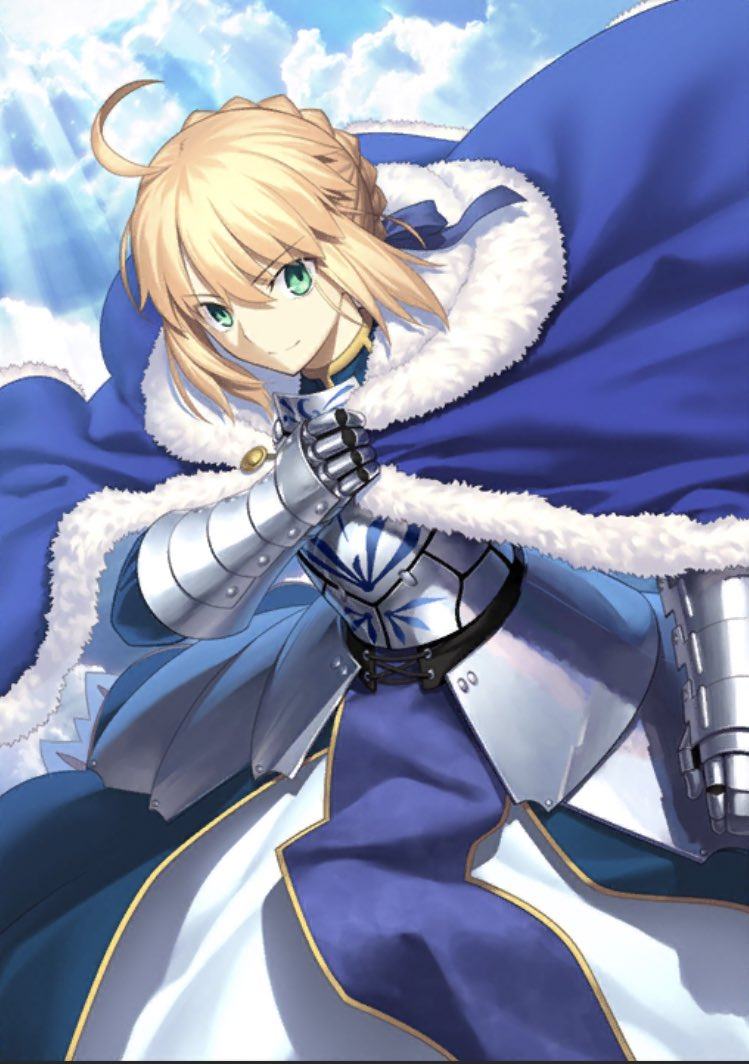
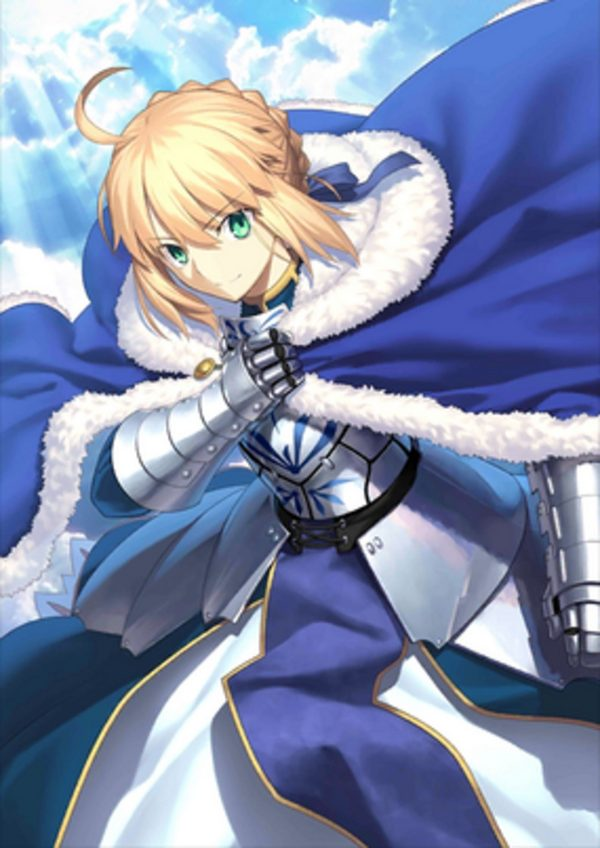
update servant cards with official art, fixed backs, and auto-sorted events

diff --git a/index.html b/index.html
@@ -24,15 +24,15 @@
     .toolbar{display:flex;gap:10px;align-items:center;flex-wrap:wrap;padding:24px 0 18px}.search{position:relative;flex:1;min-width:220px}.search input{width:100%;border:1px solid var(--line);background:var(--panel);color:var(--ink);padding:13px 16px 13px 42px;border-radius:8px;outline:none}.search:before{content:"⌕";position:absolute;left:15px;top:7px;font-size:1.5rem;color:var(--muted)}.search input:focus{border-color:var(--blue);box-shadow:0 0 0 3px color-mix(in srgb,var(--blue),transparent 82%)}
     .filters{display:flex;gap:6px;flex-wrap:wrap}.filter{border:1px solid var(--line);background:transparent;color:var(--muted);border-radius:999px;padding:9px 13px;cursor:pointer}.filter.active{background:var(--navy);color:white;border-color:var(--navy)}
     .count{font-size:.82rem;color:var(--muted);padding:0 0 14px;display:flex;align-items:center;justify-content:space-between;gap:12px;flex-wrap:wrap}.spoiler-toggle{border:1px solid var(--line);background:var(--panel);color:var(--muted);padding:7px 10px;border-radius:6px;cursor:pointer;font-size:.75rem}.spoiler-toggle[aria-pressed="true"]{border-color:var(--gold);color:var(--ink)}.grid{display:grid;grid-template-columns:repeat(3,minmax(0,1fr));gap:22px}
-    .card-wrap{min-width:0;perspective:1400px}.card{position:relative;aspect-ratio:3/4.25;transform-style:preserve-3d;transition:transform .72s cubic-bezier(.2,.75,.2,1);cursor:pointer;outline:none}.card.flipped{transform:rotateY(180deg)}.face{position:absolute;inset:0;backface-visibility:hidden;border-radius:15px;overflow:hidden;box-shadow:var(--shadow)}
-    .front{background:#0a1528;border:6px solid var(--gold);padding:5px}.front:before{content:"";position:absolute;inset:7px;border:1px solid rgba(255,241,178,.78);z-index:4;pointer-events:none}.art{position:absolute;inset:12px 12px 82px;overflow:hidden;background:#071326}.art img{width:100%;height:100%;object-fit:cover;display:block;transition:transform .5s ease}.card:hover .art img{transform:scale(1.025)}
+    .card-wrap{min-width:0;perspective:1400px;-webkit-perspective:1400px}.card{position:relative;aspect-ratio:2/3;transform-style:preserve-3d;-webkit-transform-style:preserve-3d;transition:transform .72s cubic-bezier(.2,.75,.2,1);cursor:pointer;outline:none}.card.flipped{transform:rotateY(180deg);-webkit-transform:rotateY(180deg)}.face{position:absolute;inset:0;backface-visibility:hidden;-webkit-backface-visibility:hidden;transform-style:preserve-3d;-webkit-transform-style:preserve-3d;border-radius:15px;overflow:hidden;box-shadow:var(--shadow)}
+    .front{transform:rotateY(0deg);-webkit-transform:rotateY(0deg);background:#0a1528;border:6px solid var(--gold);padding:5px}.front:before{content:"";position:absolute;inset:7px;border:1px solid rgba(255,241,178,.78);z-index:4;pointer-events:none}.art{position:absolute;inset:12px 12px 82px;overflow:hidden;background:#071326}.art img{width:100%;height:100%;object-fit:cover;display:block;transition:transform .5s ease}.card:hover .art img{transform:scale(1.025)}
     .foil{position:absolute;inset:0;z-index:3;pointer-events:none;background:linear-gradient(118deg,transparent 20%,rgba(255,255,255,.13) 40%,rgba(103,226,255,.25) 46%,rgba(255,215,116,.18) 53%,transparent 66%);transform:translateX(-110%);transition:transform .8s}.card:hover .foil{transform:translateX(90%)}
     .class-badge{position:absolute;z-index:5;left:21px;top:21px;background:rgba(2,11,28,.86);border:1px solid var(--gold2);color:#fff;padding:6px 9px;font-size:.7rem;font-weight:800;letter-spacing:.08em}.rarity{position:absolute;z-index:5;right:22px;top:23px;color:var(--gold2);text-shadow:0 1px 4px #000;font-size:.78rem;letter-spacing:.05em}
     .nameplate{position:absolute;z-index:5;left:12px;right:12px;bottom:12px;height:70px;padding:11px 14px;background:linear-gradient(110deg,#07162e,#17355b 60%,#0b1a34);border-top:1px solid var(--gold2);color:white}.nameplate h2{font-family:"Noto Serif SC",serif;font-size:1.25rem;line-height:1.15;margin:0}.nameplate p{margin:4px 0 0;color:#b8c8df;font-size:.72rem;letter-spacing:.08em;text-transform:uppercase}.tap{position:absolute;right:13px;bottom:12px;font-size:.65rem;color:#dce8f8;opacity:.78}
-    .back{transform:rotateY(180deg);background:var(--panel);border:2px solid var(--gold);padding:26px 24px 22px;display:flex;flex-direction:column}.back:before,.back:after{content:"";position:absolute;border:1px solid var(--line);pointer-events:none}.back:before{inset:8px}.back:after{inset:13px;border-color:color-mix(in srgb,var(--gold),transparent 52%)}.back>*{position:relative;z-index:2}.back .serial{font-weight:800;color:var(--blue);font-size:.68rem;letter-spacing:.15em}.back h3{font-family:"Noto Serif SC",serif;font-size:1.6rem;line-height:1.15;margin:10px 0 4px}.back .origin{font-size:.75rem;color:var(--muted);margin:0 0 16px}.divider{height:1px;background:linear-gradient(90deg,var(--gold),transparent);margin:0 0 14px}.story{font-size:.88rem;line-height:1.72;margin:0}.np{margin-top:auto;padding-top:12px}.np span{display:block;font-size:.65rem;font-weight:800;color:var(--blue);letter-spacing:.12em}.np strong{display:block;font-family:"Noto Serif SC",serif;font-size:1rem;margin-top:3px}.source{display:inline-flex;align-items:center;gap:6px;color:var(--blue);font-size:.72rem;margin-top:13px;text-decoration:none;font-weight:700}.source:hover{text-decoration:underline}
-    .empty{display:none;text-align:center;padding:70px 20px;color:var(--muted);border:1px dashed var(--line);border-radius:10px}.empty.show{display:block}.events{margin-top:58px;padding-top:30px;border-top:1px solid var(--line)}.events-head{display:flex;justify-content:space-between;gap:24px;align-items:end;margin-bottom:18px}.events h2{font-family:"Noto Serif SC",serif;font-size:clamp(1.8rem,4vw,3.2rem);margin:0;letter-spacing:-.04em}.asof{color:var(--muted);font-size:.76rem;text-align:right}.event-list{display:grid;grid-template-columns:repeat(3,minmax(0,1fr));border-top:2px solid var(--ink)}.event{padding:20px 18px 17px;border-bottom:1px solid var(--line);border-right:1px solid var(--line)}.event:last-child{border-right:0}.event-top{display:flex;justify-content:space-between;gap:10px;align-items:start}.event h3{font-family:"Noto Serif SC",serif;margin:0;font-size:1.18rem;line-height:1.35}.verdict{white-space:nowrap;padding:4px 7px;border-radius:4px;background:var(--navy);color:#fff;font-size:.7rem;font-weight:800}.verdict.maybe{background:transparent;color:var(--blue);border:1px solid var(--blue)}.date{margin:7px 0 12px;color:var(--blue);font-size:.75rem;font-weight:700}.event p{margin:0;color:var(--muted);font-size:.84rem;line-height:1.7}.event .reward{color:var(--ink);margin-bottom:7px}.event a{display:inline-block;margin-top:12px;color:var(--blue);font-weight:700;font-size:.74rem;text-decoration:none}.event a:hover{text-decoration:underline}.forecast{margin:13px 0 0;color:var(--muted);font-size:.72rem;line-height:1.6}.foot{margin-top:34px;padding-top:18px;border-top:1px solid var(--line);display:flex;justify-content:space-between;gap:20px;color:var(--muted);font-size:.76rem;line-height:1.6}.kbd{border:1px solid var(--line);border-bottom-width:2px;border-radius:4px;padding:1px 5px;background:var(--panel)}
+    .back{transform:rotateY(180deg);-webkit-transform:rotateY(180deg);background:var(--panel);border:2px solid var(--gold);padding:26px 24px 22px;display:flex;flex-direction:column}.back:before,.back:after{content:"";position:absolute;border:1px solid var(--line);pointer-events:none}.back:before{inset:8px}.back:after{inset:13px;border-color:color-mix(in srgb,var(--gold),transparent 52%)}.back>*{position:relative;z-index:2}.back .serial{font-weight:800;color:var(--blue);font-size:.68rem;letter-spacing:.15em}.back h3{font-family:"Noto Serif SC",serif;font-size:1.6rem;line-height:1.15;margin:10px 0 4px}.back .origin{font-size:.75rem;color:var(--muted);margin:0 0 16px}.divider{height:1px;background:linear-gradient(90deg,var(--gold),transparent);margin:0 0 14px}.story{font-size:.88rem;line-height:1.72;margin:0}.story.is-quote{font-family:"Noto Serif SC",serif}.text-source{margin:8px 0 0;color:var(--muted);font-size:.69rem;line-height:1.5}.np{margin-top:auto;padding-top:12px}.np span{display:block;font-size:.65rem;font-weight:800;color:var(--blue);letter-spacing:.12em}.np strong{display:block;font-family:"Noto Serif SC",serif;font-size:1rem;margin-top:3px}.source{display:inline-flex;align-items:center;gap:6px;color:var(--blue);font-size:.72rem;margin-top:13px;text-decoration:none;font-weight:700}.source:hover{text-decoration:underline}
+    .empty{display:none;text-align:center;padding:70px 20px;color:var(--muted);border:1px dashed var(--line);border-radius:10px}.empty.show{display:block}.events{margin-top:58px;padding-top:30px;border-top:1px solid var(--line)}.events-head{display:flex;justify-content:space-between;gap:24px;align-items:end;margin-bottom:18px}.events h2{font-family:"Noto Serif SC",serif;font-size:clamp(1.8rem,4vw,3.2rem);margin:0;letter-spacing:-.04em}.asof{color:var(--muted);font-size:.76rem;text-align:right}.event-groups{display:grid;gap:28px}.event-group{min-width:0}.event-group-head{display:flex;align-items:center;gap:10px;margin-bottom:9px}.event-group-head h3{font-size:.82rem;margin:0;color:var(--ink)}.event-count{display:inline-flex;align-items:center;justify-content:center;min-width:1.55rem;height:1.55rem;border-radius:50%;background:var(--navy);color:white;font-size:.68rem;font-weight:800}.event-list{display:grid;grid-template-columns:repeat(3,minmax(0,1fr));border-top:2px solid var(--ink)}.event{padding:20px 18px 17px;border-bottom:1px solid var(--line);border-right:1px solid var(--line)}.event:last-child{border-right:0}.event-top{display:flex;justify-content:space-between;gap:10px;align-items:start}.event h4{font-family:"Noto Serif SC",serif;margin:0;font-size:1.18rem;line-height:1.35}.badges{display:flex;align-items:center;justify-content:flex-end;gap:5px;flex-wrap:wrap}.verdict,.source-badge{white-space:nowrap;padding:4px 7px;border-radius:4px;font-size:.68rem;font-weight:800}.verdict{background:var(--navy);color:#fff}.source-badge{color:var(--blue);border:1px solid var(--blue)}.source-badge.official{color:var(--ink);border-color:var(--gold)}.date{margin:7px 0 12px;color:var(--blue);font-size:.75rem;font-weight:700}.event-detail{border-top:1px solid var(--line);margin-top:14px;padding-top:10px}.event-detail summary{cursor:pointer;color:var(--blue);font-size:.76rem;font-weight:700}.event-detail p{margin:10px 0 0;color:var(--muted);font-size:.84rem;line-height:1.7}.event-detail .reward{color:var(--ink)}.event a{display:inline-block;margin-top:12px;color:var(--blue);font-weight:700;font-size:.74rem;text-decoration:none}.event a:hover{text-decoration:underline}.event-empty{margin:0;padding:18px;border-top:2px solid var(--line);color:var(--muted);font-size:.82rem}.forecast{margin:13px 0 0;color:var(--muted);font-size:.72rem;line-height:1.6}.foot{margin-top:34px;padding-top:18px;border-top:1px solid var(--line);display:flex;justify-content:space-between;gap:20px;color:var(--muted);font-size:.76rem;line-height:1.6}.kbd{border:1px solid var(--line);border-bottom-width:2px;border-radius:4px;padding:1px 5px;background:var(--panel)}
     @media(max-width:850px){.hero{grid-template-columns:1fr;align-items:start}.hero p{max-width:650px}.grid{grid-template-columns:repeat(2,minmax(0,1fr))}.event-list{grid-template-columns:1fr}.event{border-right:0}}
-    @media(max-width:560px){.page{padding:17px 14px 54px}.hero{padding-top:8px;gap:15px}.hero h1{font-size:2.65rem}.hero p{font-size:.95rem}.toolbar{position:sticky;top:0;z-index:20;background:color-mix(in srgb,var(--bg),transparent 4%);padding:12px 0 10px}.search{flex-basis:100%}.grid{grid-template-columns:1fr;gap:18px}.card{aspect-ratio:3/4.05;max-height:640px}.face{border-radius:13px}.back{padding:29px 28px 25px}.back h3{font-size:1.75rem}.story{font-size:.95rem}.events{margin-top:42px}.events-head{display:block}.asof{text-align:left;margin-top:8px}.event{padding:18px 5px}.foot{flex-direction:column}.filters{flex-wrap:nowrap;width:100%}.filter{flex:1;padding:8px 7px;font-size:.8rem}}
+    @media(max-width:560px){.page{padding:17px 14px 54px}.hero{padding-top:8px;gap:15px}.hero h1{font-size:2.65rem}.hero p{font-size:.95rem}.toolbar{position:sticky;top:0;z-index:20;background:color-mix(in srgb,var(--bg),transparent 4%);padding:12px 0 10px}.search{flex-basis:100%}.grid{grid-template-columns:1fr;gap:18px}.card{aspect-ratio:2/3;max-height:640px}.face{border-radius:13px}.back{padding:27px 24px 24px}.back h3{font-size:1.55rem}.back .origin{margin-bottom:13px}.story{font-size:.88rem;line-height:1.65}.np{padding-top:10px}.source{margin-top:9px}.events{margin-top:42px}.events-head{display:block}.asof{text-align:left;margin-top:8px}.event{padding:18px 5px}.foot{flex-direction:column}.filters{flex-wrap:nowrap;width:100%}.filter{flex:1;padding:8px 7px;font-size:.8rem}}
     @media(prefers-reduced-motion:reduce){html{scroll-behavior:auto}.card,.art img,.foil{transition:none}}
   </style>
 </head>
@@ -40,7 +40,7 @@
   <main class="page">
     <section class="hero">
       <div><p class="chapter"><span class="seal"></span>CHALDEA ARCHIVE · 试作图鉴</p><h1>别查百科。<br><em>翻一张卡。</em></h1></div>
-      <p>六位从者，六段一分钟人物小传。点开卡面，从真实传说进入型月的召唤记录；不碰主线剧透，只讲“这个人为什么值得认识”。</p>
+      <p>六位从者，五段原典摘录与一段 FGO 角色设定。点开卡面，可读《亚瑟之死》《吉尔伽美什史诗》《伊南娜下冥界》与《仲夏夜之梦》的短句。</p>
     </section>
 
     <section class="toolbar" aria-label="筛选图鉴">
@@ -54,34 +54,41 @@
     <div class="empty" id="empty">这次灵基检索没有结果。换个名字或职阶试试。</div>
 
     <section class="events" aria-labelledby="events-title">
-      <div class="events-head"><h2 id="events-title">接下来，打什么？</h2><div class="asof">美服路线快照 · 截至 2026-09-22<br>官方确认与日服排期预测分开标注</div></div>
-      <div class="event-list">
-        <article class="event"><div class="event-top"><h3>妖精双六虫笼游戏</h3><span class="verdict">必打</span></div><div class="date">官方预告 · 9 月下旬</div><p class="reward">重点：主线圣晶石、商店素材、Kazuradrop 灵衣与强化本。</p><p>Kazuradrop 是五星限定 Alter Ego，不是活动赠送；想抽再抽，别把灵衣误当福利从者。</p><a href="https://webview.fate-go.us/2026/0917_sugoroku/" target="_blank" rel="noopener">看美服官方预告 ↗</a></article>
-        <article class="event"><div class="event-top"><h3>GUDAGUDA 龙马危机一发 复刻</h3><span class="verdict maybe">预测</span></div><div class="date">预计 10 月 · 具体日期待官宣</div><p class="reward">新玩家必打：免费四星 Avenger「谜之兰丸 X」可补宝具。</p><p>老玩家以活动奖励为主；出云阿国与坂本龙马均按厨力规划，不必因复刻焦虑追卡。</p><a href="https://fategrandorder.fandom.com/wiki/Event_List_(US)/Upcoming_Events" target="_blank" rel="noopener">看预测路线图 ↗</a></article>
-        <article class="event"><div class="event-top"><h3>神秘屋工匠</h3><span class="verdict maybe">预测</span></div><div class="date">预计 11 月 · 具体日期待官宣</div><p class="reward">必打：免费四星 Lancer「梵高〔矿工〕」；别和五星 Foreigner 梵高混淆。</p><p>新五星 Archer 图坦卡蒙预计为限定。同期复刻卡池多，先留预算再看官宣。</p><a href="https://fategrandorder.fandom.com/wiki/Event_List_(US)/Upcoming_Events" target="_blank" rel="noopener">看预测路线图 ↗</a></article>
-      </div>
-      <p class="forecast">预测依据：美服通常沿用约两年前的日服活动顺序；它不是官宣，排期与卡池可能调整。页面不会自动更新，请以链接中的美服官方公告为准。</p>
+      <div class="events-head"><h2 id="events-title">接下来，打什么？</h2><div class="asof">美服路线数据快照 · 2026-09-22<br><span id="calendar-date">按设备日期自动分类</span></div></div>
+      <div class="event-groups" id="event-groups"></div>
+      <p class="forecast">活动状态会按浏览者设备日期自动归档；只有月份精度的排期按整月起止计算。预测依据：美服通常沿用约两年前的日服活动顺序，它不是官宣，排期与卡池可能调整，请以美服官方公告为准。</p>
     </section>
-    <footer class="foot"><span>小提示：点卡片翻面；桌面端可用 <span class="kbd">Enter</span> 或 <span class="kbd">Space</span>。</span><span>角色资料据公开 FGO / TYPE-MOON Wiki 条目整理。</span></footer>
+    <footer class="foot"><span>小提示：点卡片翻面；桌面端可用 <span class="kbd">Enter</span> 或 <span class="kbd">Space</span>。</span><span>原典摘录据公开文本直译；玛修条目据 FGO 角色设定整理。</span></footer>
   </main>
 <script>
 (function(){
   var servants=[
-    {id:'001',name:'玛修·基列莱特',en:'MASH KYRIELIGHT',cls:'Shielder',group:'Other',stars:'★★★',img:'assets/mash.png',pos:'50% 42%',origin:'FGO原创 · 迦勒底',story:'迦勒底的少女职员，也是与英灵灵基融合的“亚从者”。她第一次踏上旅途，便举起巨盾与御主并肩前行；比起某位英雄的传说，这张卡更想记住她自己一步步选择未来的故事。',np:'假想宝具 拟似展开／人理之础',url:'https://fategrandorder.fandom.com/wiki/Mashu_Kyrielight'},
-    {id:'002',name:'阿尔托莉雅·潘德拉贡',en:'ARTORIA PENDRAGON',cls:'Saber',group:'Saber',stars:'★★★★★',img:'assets/artoria.jpg',pos:'51% 35%',origin:'亚瑟王传说 · 不列颠',story:'传说中的骑士王。拔出选定之剑后，她把个人的人生交给了王的职责，也把濒临崩坏的不列颠短暂地托在圣剑之上。Fate 的改写，让“完美之王”与“未曾作为少女生活的人”同时成立。',np:'誓约胜利之剑',url:'https://fategrandorder.fandom.com/wiki/Artoria_Pendragon'},
-    {id:'012',name:'吉尔伽美什',en:'GILGAMESH',cls:'Archer',group:'Other',stars:'★★★★★',img:'assets/gilgamesh.png',pos:'50% 30%',origin:'《吉尔伽美什史诗》 · 乌鲁克',story:'人类最古老史诗里的乌鲁克之王，三分之二为神、三分之一为人。他因挚友恩奇都之死踏上追寻不死的旅程，最终明白生命有限。Fate 将这份“最古之王”的傲慢与孤独推到了极致。',np:'天地乖离开辟之星',url:'https://typemoon.fandom.com/wiki/List_of_Servants_in_Fate/Grand_Order'},
-    {id:'150',name:'梅林',en:'MERLIN',cls:'Caster',group:'Caster',stars:'★★★★★',img:'assets/merlin.jpg',pos:'50% 49%',origin:'亚瑟王传说 · 阿瓦隆',story:'能够看见当下世界各处的花之魔术师，也是亚瑟王命运背后的导师。身为梦魔与人类的混血，他理解故事，却不完全理解人的感情；于是总在最恰当、也最可疑的时刻，笑着把英雄推上舞台。',np:'永世隔绝的理想乡',url:'https://fategrandorder.fandom.com/wiki/Merlin'},
-    {id:'196',name:'埃列什基伽勒',en:'ERESHKIGAL',cls:'Lancer',group:'Other',stars:'★★★★★',img:'assets/ereshkigal.webp',pos:'50% 50%',origin:'苏美尔神话 · 冥界',story:'苏美尔神话的冥界女神，自诞生起便被职责束缚在地下。她管理死者、操纵灵魂之槛，看似严厉，却忍不住为来到冥界的人操心。FGO 让这位孤独的神明借人类少女之身显现。',np:'灵峰踏抱冥府之鞴',url:'https://fategrandorder.fandom.com/wiki/Ereshkigal'},
-    {id:'316',name:'奥伯龙',en:'OBERON',cls:'？？？',realCls:'Pretender',group:'Other',stars:'★★★★★',img:'assets/oberon.webp',pos:'50% 45%',origin:'日耳曼传说 / 中世纪文学',story:'最广为人知的奥伯龙，是《仲夏夜之梦》里任性而强大的妖精王；更早的《波尔多的休恩》则把他写成掌管妖精森林、能实现愿望的魔法之王。至于 FGO 的他——最好亲自走进故事再认识。',np:'已封存 · 通关妖精国后解锁',realNp:'于彼方点缀的梦之童话',url:'https://fategrandorder.fandom.com/wiki/Oberon'}
+    {id:'001',name:'玛修·基列莱特',en:'MASH KYRIELIGHT',cls:'Shielder',group:'Other',stars:'★★★',img:'assets/mash.jpg?v=official-3',pos:'50% 8%',origin:'FGO原创 · 迦勒底',story:'迦勒底职员。与从者的灵基融合后成为亚从者，以巨盾保护御主，并参与修复特异点的行动。',textSource:'FGO 角色设定',quote:false,np:'假想宝具 拟似展开／人理之础',url:'https://fategrandorder.fandom.com/wiki/Mashu_Kyrielight',sourceLabel:'查看设定来源 ↗'},
+    {id:'002',name:'阿尔托莉雅·潘德拉贡',en:'ARTORIA PENDRAGON',cls:'Saber',group:'Saber',stars:'★★★★★',img:'assets/artoria.jpg?v=official-3',pos:'51% 8%',origin:'亚瑟王传说 · 不列颠',story:'“谁能从这块石头和铁砧中拔出此剑，谁就是全英格兰正统的天生国王。”',textSource:'《亚瑟之死》第一卷第五章 · 据英文原文直译',quote:true,np:'誓约胜利之剑',url:'https://GUTENBERG.ORG/cache/epub/1251/pg1251-images.html',sourceLabel:'阅读原典 ↗'},
+    {id:'012',name:'吉尔伽美什',en:'GILGAMESH',cls:'Archer',group:'Other',stars:'★★★★★',img:'assets/gilgamesh.jpg?v=official-3',pos:'50% 5%',origin:'《吉尔伽美什史诗》 · 乌鲁克',story:'“吉尔伽美什自出生之日起便得其名；他三分之二为神，三分之一为人。众神之母塑成他的形体。”',textSource:'《吉尔伽美什史诗》第一块泥板 · 据英文译本直译',quote:true,np:'天地乖离开辟之星',url:'https://www.globalgreyebooks.com/ebooks/reginald-campbell-thompson_epic-of-gilgamesh.pdf',sourceLabel:'阅读原典 ↗'},
+    {id:'150',name:'梅林',en:'MERLIN',cls:'Caster',group:'Caster',stars:'★★★★★',img:'assets/merlin.jpg?v=official-3',pos:'50% 2%',origin:'亚瑟王传说 · 阿瓦隆',story:'“梅林去见坎特伯雷大主教，劝他召集国内诸侯与武装绅士，于圣诞节前往伦敦。”',textSource:'《亚瑟之死》第一卷第五章 · 据英文原文直译',quote:true,np:'永世隔绝的理想乡',url:'https://GUTENBERG.ORG/cache/epub/1251/pg1251-images.html',sourceLabel:'阅读原典 ↗'},
+    {id:'196',name:'埃列什基伽勒',en:'ERESHKIGAL',cls:'Lancer',group:'Other',stars:'★★★★★',img:'assets/ereshkigal.jpg?v=official-3',pos:'50% 2%',origin:'苏美尔神话 · 冥界',story:'“伊南娜令她的姐姐埃列什基伽勒离开王座，自己坐上王座；七位安努纳审判官随即作出裁决。”',textSource:'《伊南娜下冥界》164—172 行 · 据 ETCSL 英译直译',quote:true,np:'灵峰踏抱冥府之鞴',url:'https://omnika.org/texts/70',sourceLabel:'阅读原典 ↗'},
+    {id:'316',name:'奥伯龙',en:'OBERON',cls:'？？？',realCls:'Pretender',group:'Other',stars:'★★★★★',img:'assets/oberon-card.jpg?v=official-4',pos:'50% 2%',origin:'《仲夏夜之梦》 · 妖精森林',story:'“你看见这对恋人正要争斗。去吧，罗宾，让夜空覆上如阿刻戎河般漆黑的低垂浓雾，使他们彼此走散。”',textSource:'《仲夏夜之梦》第三幕第二场 · 据英文原文直译',quote:true,np:'已封存 · 通关妖精国后解锁',realNp:'于彼方点缀的梦之童话',url:'https://www.gutenberg.org/files/1514/1514-h/1514-h.htm',sourceLabel:'阅读原典 ↗'}
   ];
   var grid=document.getElementById('grid'),search=document.getElementById('search'),count=document.getElementById('count'),empty=document.getElementById('empty'),spoiler=document.getElementById('spoiler');var active='all',spoilerOn=false;
   var classAlias={Saber:'剑 剑阶',Caster:'术 术阶',Archer:'弓 弓阶',Lancer:'枪 枪阶',Shielder:'盾 盾阶'};
-  function cardHTML(s){var terms=s.name+' '+s.en+' '+s.cls+' '+s.origin+' '+(classAlias[s.cls]||'');return '<article class="card-wrap" data-id="'+s.id+'" data-class="'+s.group+'" data-search="'+terms.toLowerCase()+'" data-spoiler="'+((s.realCls||'')+' Pretender 欺诈师').toLowerCase()+'"><div class="card" tabindex="0" role="button" aria-label="翻阅'+s.name+'人物卡" aria-pressed="false"><div class="face front"><div class="art"><img src="'+s.img+'" alt="'+s.name+'卡面插画" style="object-position:'+s.pos+'"></div><div class="foil"></div><div class="class-badge">'+s.cls.toUpperCase()+'</div><div class="rarity">'+s.stars+'</div><div class="nameplate"><h2>'+s.name+'</h2><p>'+s.en+'</p><span class="tap">FLIP ↻</span></div></div><div class="face back"><span class="serial">SPIRIT ORIGIN · '+s.id+'</span><h3>'+s.name+'</h3><p class="origin">'+s.origin+' · <span class="back-class">'+s.cls+'</span></p><div class="divider"></div><p class="story">'+s.story+'</p><div class="np"><span>NOBLE PHANTASM</span><strong>'+s.np+'</strong></div><a class="source" href="'+s.url+'" target="_blank" rel="noopener" aria-label="阅读'+s.name+'资料来源">资料来源 ↗</a></div></div></article>'}
+  function cardHTML(s){var terms=s.name+' '+s.en+' '+s.cls+' '+s.origin+' '+(classAlias[s.cls]||'');return '<article class="card-wrap" data-id="'+s.id+'" data-class="'+s.group+'" data-search="'+terms.toLowerCase()+'" data-spoiler="'+((s.realCls||'')+' Pretender 欺诈师').toLowerCase()+'"><div class="card" tabindex="0" role="button" aria-label="翻阅'+s.name+'人物卡" aria-pressed="false"><div class="face front"><div class="art"><img src="'+s.img+'" alt="'+s.name+'卡面插画" style="object-position:'+s.pos+'"></div><div class="foil"></div><div class="class-badge">'+s.cls.toUpperCase()+'</div><div class="rarity">'+s.stars+'</div><div class="nameplate"><h2>'+s.name+'</h2><p>'+s.en+'</p><span class="tap">FLIP ↻</span></div></div><div class="face back"><span class="serial">SPIRIT ORIGIN · '+s.id+'</span><h3>'+s.name+'</h3><p class="origin">'+s.origin+' · <span class="back-class">'+s.cls+'</span></p><div class="divider"></div><p class="story '+(s.quote?'is-quote':'')+'">'+s.story+'</p><p class="text-source">——'+s.textSource+'</p><div class="np"><span>NOBLE PHANTASM</span><strong>'+s.np+'</strong></div><a class="source" href="'+s.url+'" target="_blank" rel="noopener" aria-label="'+s.sourceLabel.replace(' ↗','')+'：'+s.name+'">'+s.sourceLabel+'</a></div></div></article>'}
   grid.innerHTML=servants.map(cardHTML).join('');
   function bind(){Array.prototype.forEach.call(document.querySelectorAll('.card'),function(card){function flip(){card.classList.toggle('flipped');card.setAttribute('aria-pressed',card.classList.contains('flipped')?'true':'false')}card.addEventListener('click',function(e){if(e.target.closest('a'))return;flip()});card.addEventListener('keydown',function(e){if(e.key==='Enter'||e.key===' '){e.preventDefault();flip()}})})}bind();
   function apply(){var q=search.value.trim().toLowerCase(),shown=0;Array.prototype.forEach.call(document.querySelectorAll('.card-wrap'),function(el){var hay=el.dataset.search+(spoilerOn?' '+el.dataset.spoiler:'');var ok=(active==='all'||el.dataset.class===active)&&(!q||hay.indexOf(q)>-1);el.style.display=ok?'block':'none';if(ok)shown++});count.textContent='已显示 '+shown+' / '+servants.length+' · 点击卡面翻阅';empty.classList.toggle('show',shown===0)}
   search.addEventListener('input',apply);Array.prototype.forEach.call(document.querySelectorAll('.filter'),function(btn){btn.addEventListener('click',function(){active=btn.dataset.filter;document.querySelector('.filter.active').classList.remove('active');btn.classList.add('active');apply()})});
   spoiler.addEventListener('click',function(){spoilerOn=!spoilerOn;var on=spoilerOn,oberon=document.querySelector('[data-id="316"]');spoiler.setAttribute('aria-pressed',on?'true':'false');spoiler.textContent='妖精国剧透：'+(on?'开启':'关闭');oberon.querySelector('.class-badge').textContent=on?'PRETENDER':'？？？';oberon.querySelector('.back-class').textContent=on?'Pretender':'？？？';oberon.querySelector('.np strong').textContent=on?'于彼方点缀的梦之童话':'已封存 · 通关妖精国后解锁';apply()});
+
+  var events=[
+    {name:'妖精双六虫笼游戏',start:'2026-09',end:'2026-09',date:'官方预告 · 9 月下旬',source:'官方',verdict:'必打',reward:'重点：主线圣晶石、商店素材、Kazuradrop 灵衣与强化本。',pool:'Kazuradrop 是五星限定 Alter Ego，不是活动赠送；想抽再抽，别把灵衣误当福利从者。',url:'https://webview.fate-go.us/2026/0917_sugoroku/',link:'看美服官方预告 ↗'},
+    {name:'GUDAGUDA 龙马危机一发 复刻',start:'2026-10',end:'2026-10',date:'预计 10 月 · 具体日期待官宣',source:'预测',verdict:'新玩家打 · 老玩家拿奖励就走',reward:'新玩家必打：免费四星 Avenger「谜之兰丸 X」可补宝具。',pool:'老玩家以活动奖励为主；出云阿国与坂本龙马均按厨力规划，不必因复刻焦虑追卡。',url:'https://fategrandorder.fandom.com/wiki/Event_List_(US)/Upcoming_Events',link:'看预测路线图 ↗'},
+    {name:'神秘屋工匠',start:'2026-11',end:'2026-11',date:'预计 11 月 · 具体日期待官宣',source:'预测',verdict:'必打',reward:'必打：免费四星 Lancer「梵高〔矿工〕」；别和五星 Foreigner 梵高混淆。',pool:'新五星 Archer 图坦卡蒙预计为限定。同期复刻卡池多，先留预算再看官宣。',url:'https://fategrandorder.fandom.com/wiki/Event_List_(US)/Upcoming_Events',link:'看预测路线图 ↗'}
+  ];
+  function dateEdge(value,isEnd){var parts=value.split('-'),year=Number(parts[0]),month=Number(parts[1])-1;if(parts.length===2)return isEnd?new Date(year,month+1,0,23,59,59,999):new Date(year,month,1,0,0,0,0);return isEnd?new Date(year,month,Number(parts[2]),23,59,59,999):new Date(year,month,Number(parts[2]),0,0,0,0)}
+  function escapeHTML(value){return String(value).replace(/[&<>"']/g,function(ch){return {'&':'&amp;','<':'&lt;','>':'&gt;','"':'&quot;',"'":'&#39;'}[ch]})}
+  function eventHTML(item){return '<article class="event"><div class="event-top"><h4>'+escapeHTML(item.name)+'</h4><div class="badges"><span class="verdict">'+escapeHTML(item.verdict)+'</span><span class="source-badge '+(item.source==='官方'?'official':'')+'">'+escapeHTML(item.source)+'</span></div></div><div class="date">'+escapeHTML(item.date)+'</div><details class="event-detail"><summary>查看奖励与卡池</summary><p class="reward">'+escapeHTML(item.reward)+'</p><p>'+escapeHTML(item.pool)+'</p><a href="'+item.url+'" target="_blank" rel="noopener">'+escapeHTML(item.link)+'</a></details></article>'}
+  function renderEvents(){var now=new Date(),today=new Date(now.getFullYear(),now.getMonth(),now.getDate()),groups={ongoing:[],upcoming:[],ended:[]};events.forEach(function(item){var start=dateEdge(item.start,false),end=dateEdge(item.end,true);groups[today<start?'upcoming':today>end?'ended':'ongoing'].push(item)});groups.ongoing.sort(function(a,b){return dateEdge(a.start,false)-dateEdge(b.start,false)});groups.upcoming.sort(function(a,b){return dateEdge(a.start,false)-dateEdge(b.start,false)});groups.ended.sort(function(a,b){return dateEdge(b.end,true)-dateEdge(a.end,true)});var labels={ongoing:'进行中',upcoming:'即将到来',ended:'已结束'},order=['ongoing','upcoming','ended'];document.getElementById('event-groups').innerHTML=order.map(function(key){var list=groups[key],content=list.length?'<div class="event-list">'+list.map(eventHTML).join('')+'</div>':'<p class="event-empty">暂无活动</p>';return '<section class="event-group" aria-labelledby="event-'+key+'"><div class="event-group-head"><h3 id="event-'+key+'">'+labels[key]+'</h3><span class="event-count">'+list.length+'</span></div>'+content+'</section>'}).join('');var formatted=today.getFullYear()+'-'+String(today.getMonth()+1).padStart(2,'0')+'-'+String(today.getDate()).padStart(2,'0');document.getElementById('calendar-date').textContent='按设备日期分类 · '+formatted}
+  renderEvents();
 })();
 </script>
 </body>
